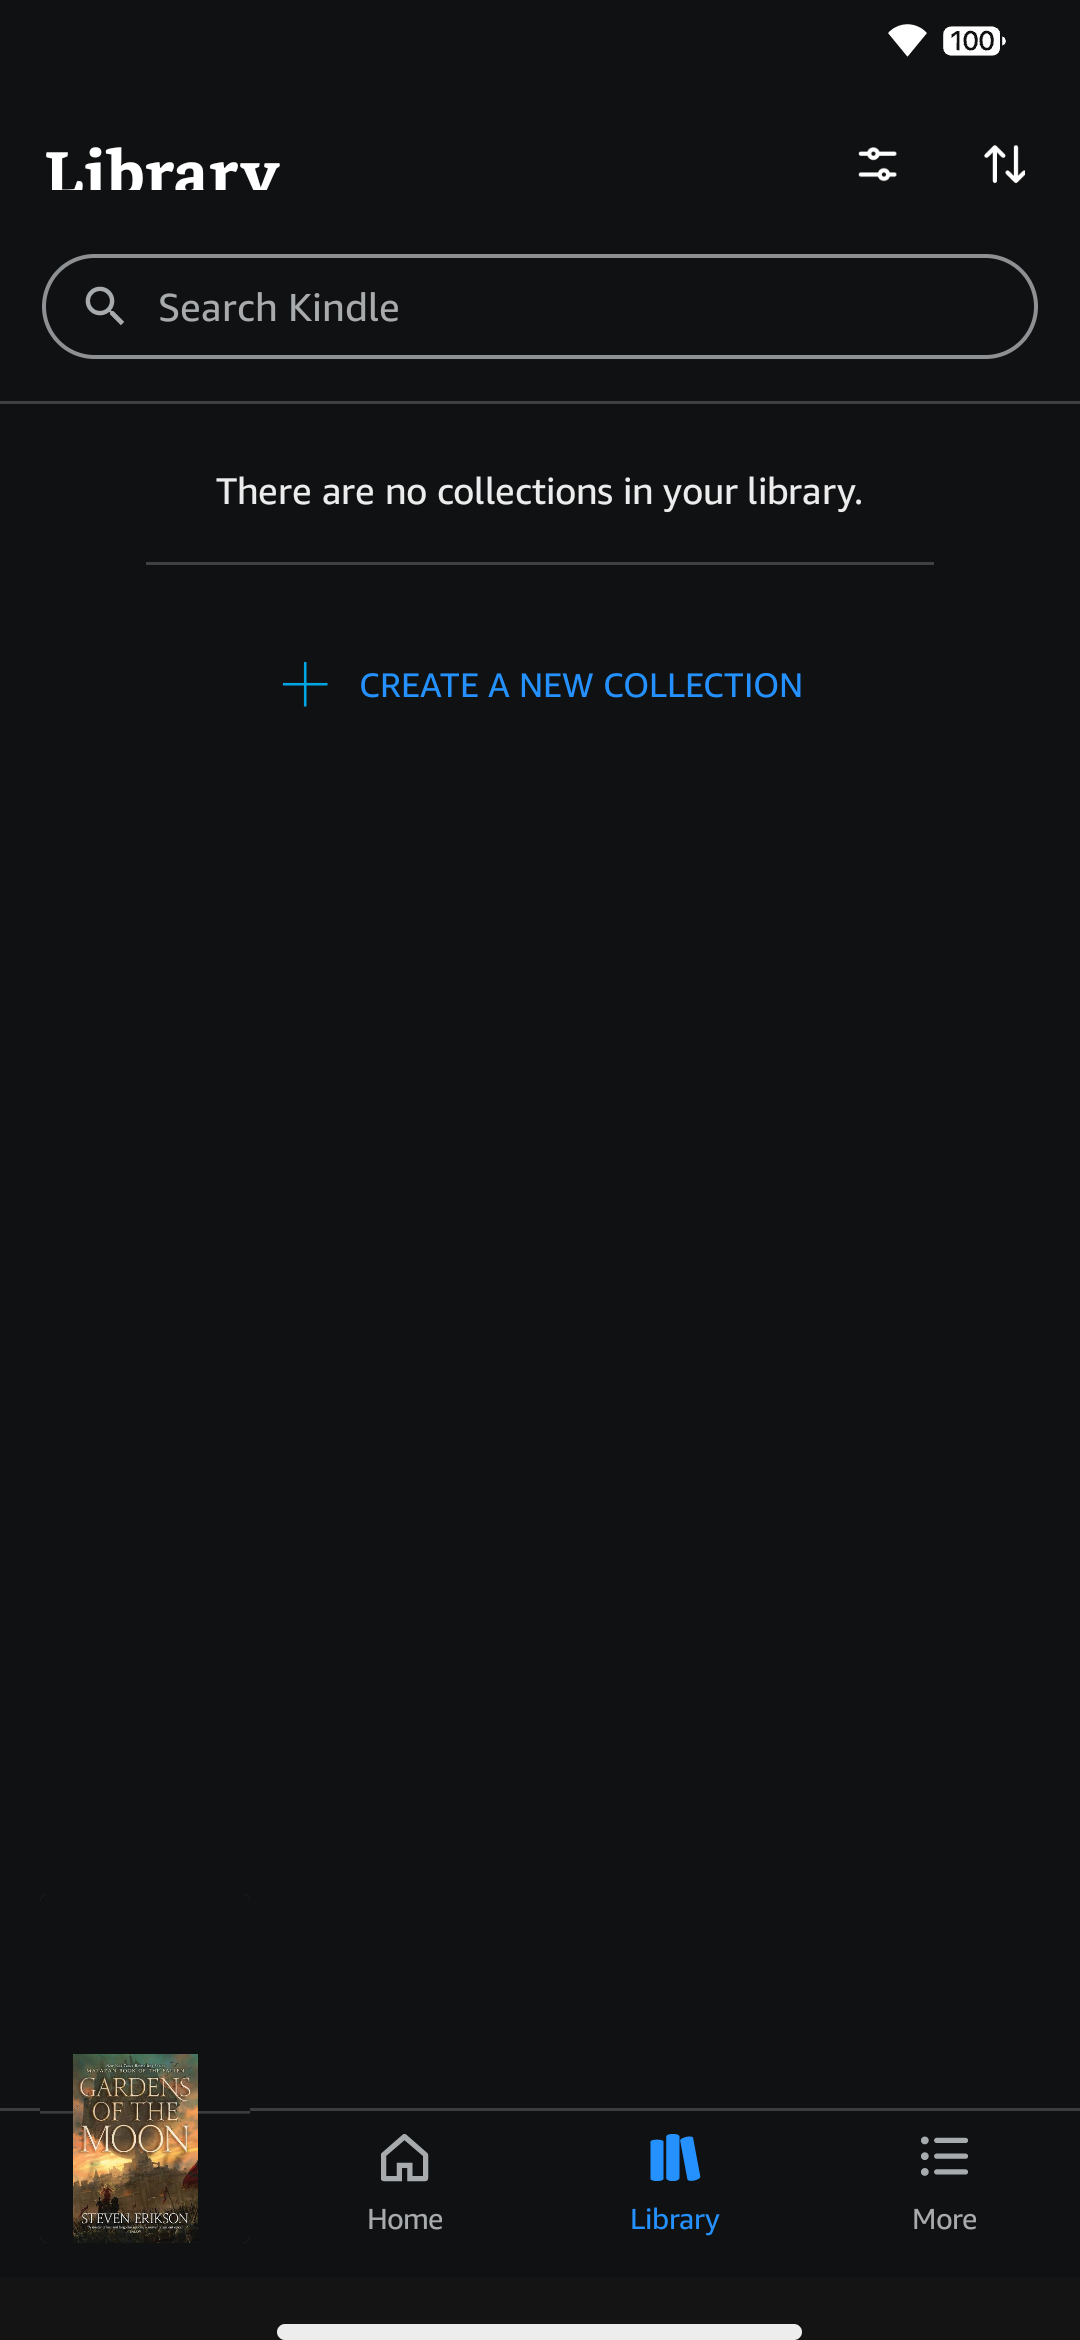
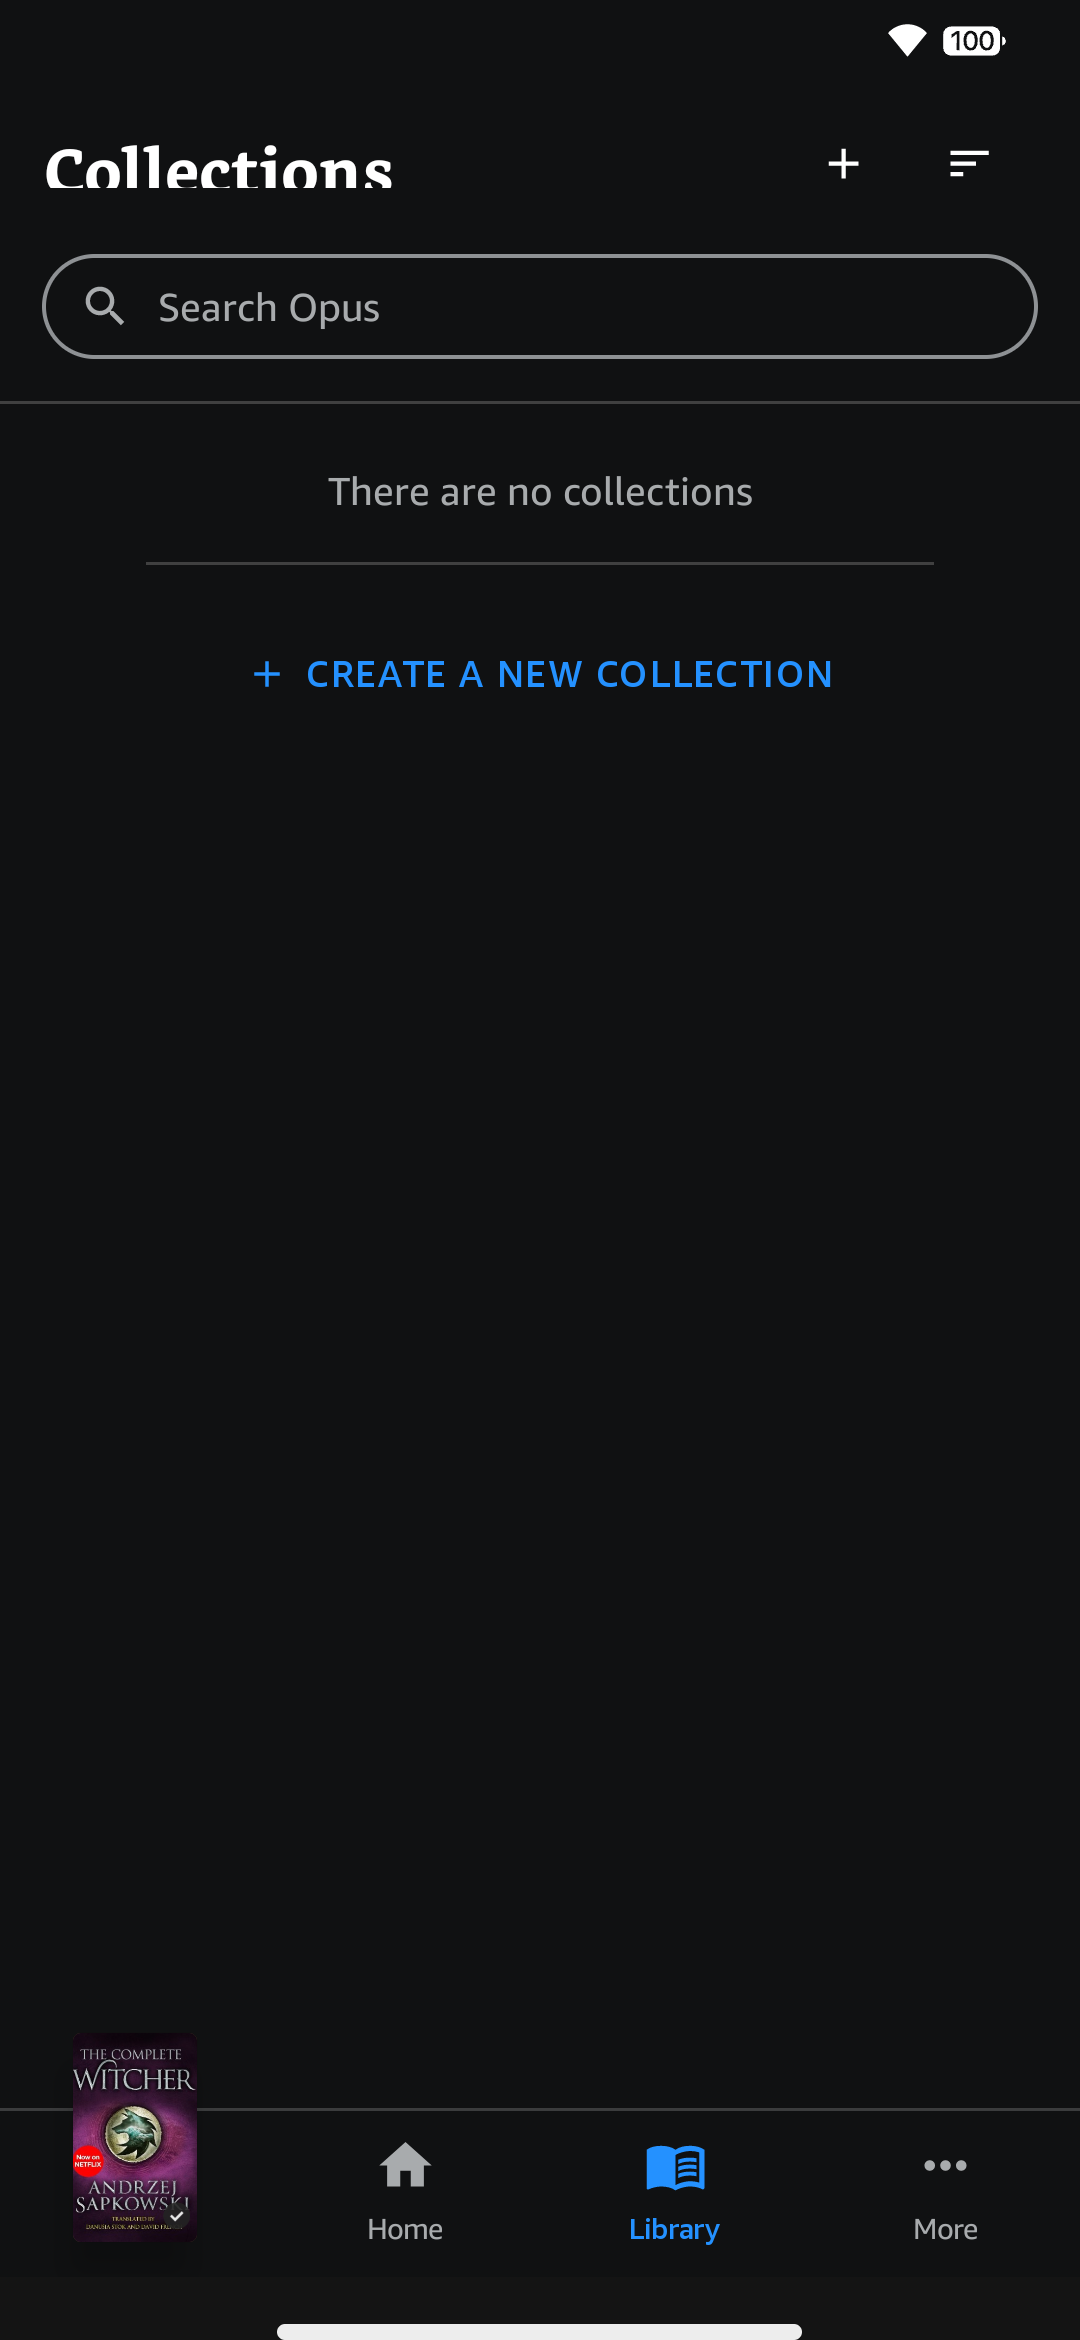
feat(real-ui): calibrate D08 Collections empty state and verify with honest harness

diff --git a/app/src/main/java/app/opusreader/ui/screens/CollectionsScreen.kt b/app/src/main/java/app/opusreader/ui/screens/CollectionsScreen.kt
@@ -3,6 +3,7 @@ package app.opusreader.ui.screens
 import androidx.compose.foundation.background
 import androidx.compose.foundation.border
 import androidx.compose.foundation.clickable
+import androidx.compose.foundation.layout.Arrangement
 import androidx.compose.foundation.layout.Box
 import androidx.compose.foundation.layout.Column
 import androidx.compose.foundation.layout.Row
@@ -198,7 +199,7 @@ fun CollectionsScreen(
             Column(
                 modifier = Modifier
                     .fillMaxWidth()
-                    .padding(top = 72.refPx),
+                    .padding(top = 60.refPx),
                 horizontalAlignment = Alignment.CenterHorizontally
             ) {
                 Text(
@@ -210,35 +211,37 @@ fun CollectionsScreen(
                     textAlign = TextAlign.Center
                 )
 
-                Spacer(modifier = Modifier.height(49.refPx))
+                Spacer(modifier = Modifier.height(45.refPx))
 
-                Box(
+                HorizontalDivider(
+                    modifier = Modifier.width(788.refPx),
+                    color = Color(0xFF404040),
+                    thickness = 3.refPx
+                )
+
+                Spacer(modifier = Modifier.height(82.refPx))
+
+                Row(
                     modifier = Modifier
-                        .width(787.refPx)
-                        .height(144.refPx)
-                        .clip(RoundedCornerShape(4.refPx))
-                        .border(width = 3.refPx, color = Color(0xFF404040), shape = RoundedCornerShape(4.refPx))
                         .clickable { showCreateDialog = true },
-                    contentAlignment = Alignment.Center
+                    verticalAlignment = Alignment.CenterVertically,
+                    horizontalArrangement = Arrangement.Center
                 ) {
-                    Row(
-                        verticalAlignment = Alignment.CenterVertically
-                    ) {
-                        Icon(
-                            imageVector = Icons.Default.Add,
-                            contentDescription = null,
-                            tint = OpusTextPrimary,
-                            modifier = Modifier.size(18.dp)
-                        )
-                        Spacer(modifier = Modifier.width(16.refPx))
-                        Text(
-                            text = "CREATE A NEW COLLECTION",
-                            fontFamily = AmazonEmberFontFamily,
-                            fontWeight = FontWeight.Bold,
-                            fontSize = 13.5.sp,
-                            color = OpusTextPrimary
-                        )
-                    }
+                    Icon(
+                        imageVector = Icons.Default.Add,
+                        contentDescription = null,
+                        tint = Color(0xFF2491FF),
+                        modifier = Modifier.size(44.refPx)
+                    )
+                    Spacer(modifier = Modifier.width(16.refPx))
+                    Text(
+                        text = "CREATE A NEW COLLECTION",
+                        fontFamily = AmazonEmberFontFamily,
+                        fontWeight = FontWeight.Bold,
+                        color = Color(0xFF2491FF),
+                        fontSize = 14.sp,
+                        letterSpacing = 1.sp
+                    )
                 }
             }
         } else {

diff --git a/app/src/main/java/app/opusreader/data/BookRepository.kt b/app/src/main/java/app/opusreader/data/BookRepository.kt
@@ -16,6 +16,7 @@ interface BookRepository {
     fun setFilter(filter: LibraryFilterState)
     fun setSortOrder(sortOrder: LibrarySortOrder)
     fun setViewMode(viewMode: LibraryViewMode)
+    fun setCollections(collections: List<CollectionItem>)
     fun createCollection(name: String): CollectionItem
     fun deleteCollection(id: String)
     fun toggleBookInCollection(bookId: String, collectionId: String)
@@ -31,7 +32,7 @@ interface BookRepository {
 
 class FakeBookRepository(
     initialBooks: List<Book> = SampleBooks.sampleList,
-    initialCollections: List<CollectionItem> = SampleBooks.sampleCollections,
+    initialCollections: List<CollectionItem> = emptyList(),
     initialNotifications: List<NotificationItem> = SampleBooks.sampleNotifications
 ) : BookRepository {
 
@@ -49,6 +50,10 @@ class FakeBookRepository(
 
     private val _collections = MutableStateFlow(initialCollections)
     override val collections: StateFlow<List<CollectionItem>> = _collections.asStateFlow()
+
+    override fun setCollections(collections: List<CollectionItem>) {
+        _collections.value = collections
+    }
 
     private val _notifications = MutableStateFlow(initialNotifications)
     override val notifications: StateFlow<List<NotificationItem>> = _notifications.asStateFlow()

diff --git a/app/src/main/java/app/opusreader/navigation/OpusNavHost.kt b/app/src/main/java/app/opusreader/navigation/OpusNavHost.kt
@@ -490,6 +490,7 @@ private fun handleFixtureDeepLink(
             }
         }
         "D08", "L08" -> {
+            bookRepository.setCollections(emptyList())
             navController.navigate(NavRoutes.COLLECTIONS) {
                 popUpTo(0) { inclusive = true }
             }

diff --git a/docs/FIDELITY_REPORT.md b/docs/FIDELITY_REPORT.md
@@ -8,7 +8,7 @@ Thresholds per screen (outside masks):
 
 | ID | Screen Name | Reference File | Diff % | Worst Offset (px) | Liveness | Scroll | Status | Notes |
 |---|---|---|---|---|---|---|---|---|
-| D07 | Library list | `docs/reference/07_library-list.png` | 16.49% | 28 px | PASS | PASS | FAIL | bad: 16.49%, dy: 28px |
+| D08 | Collections (empty) | `docs/reference/08_collections.png` | 3.11% | 21 px | PASS | N/A | FAIL | bad: 3.11%, dy: 21px |
 
 ## Summary
 - **Total canonical screens evaluated**: 1
